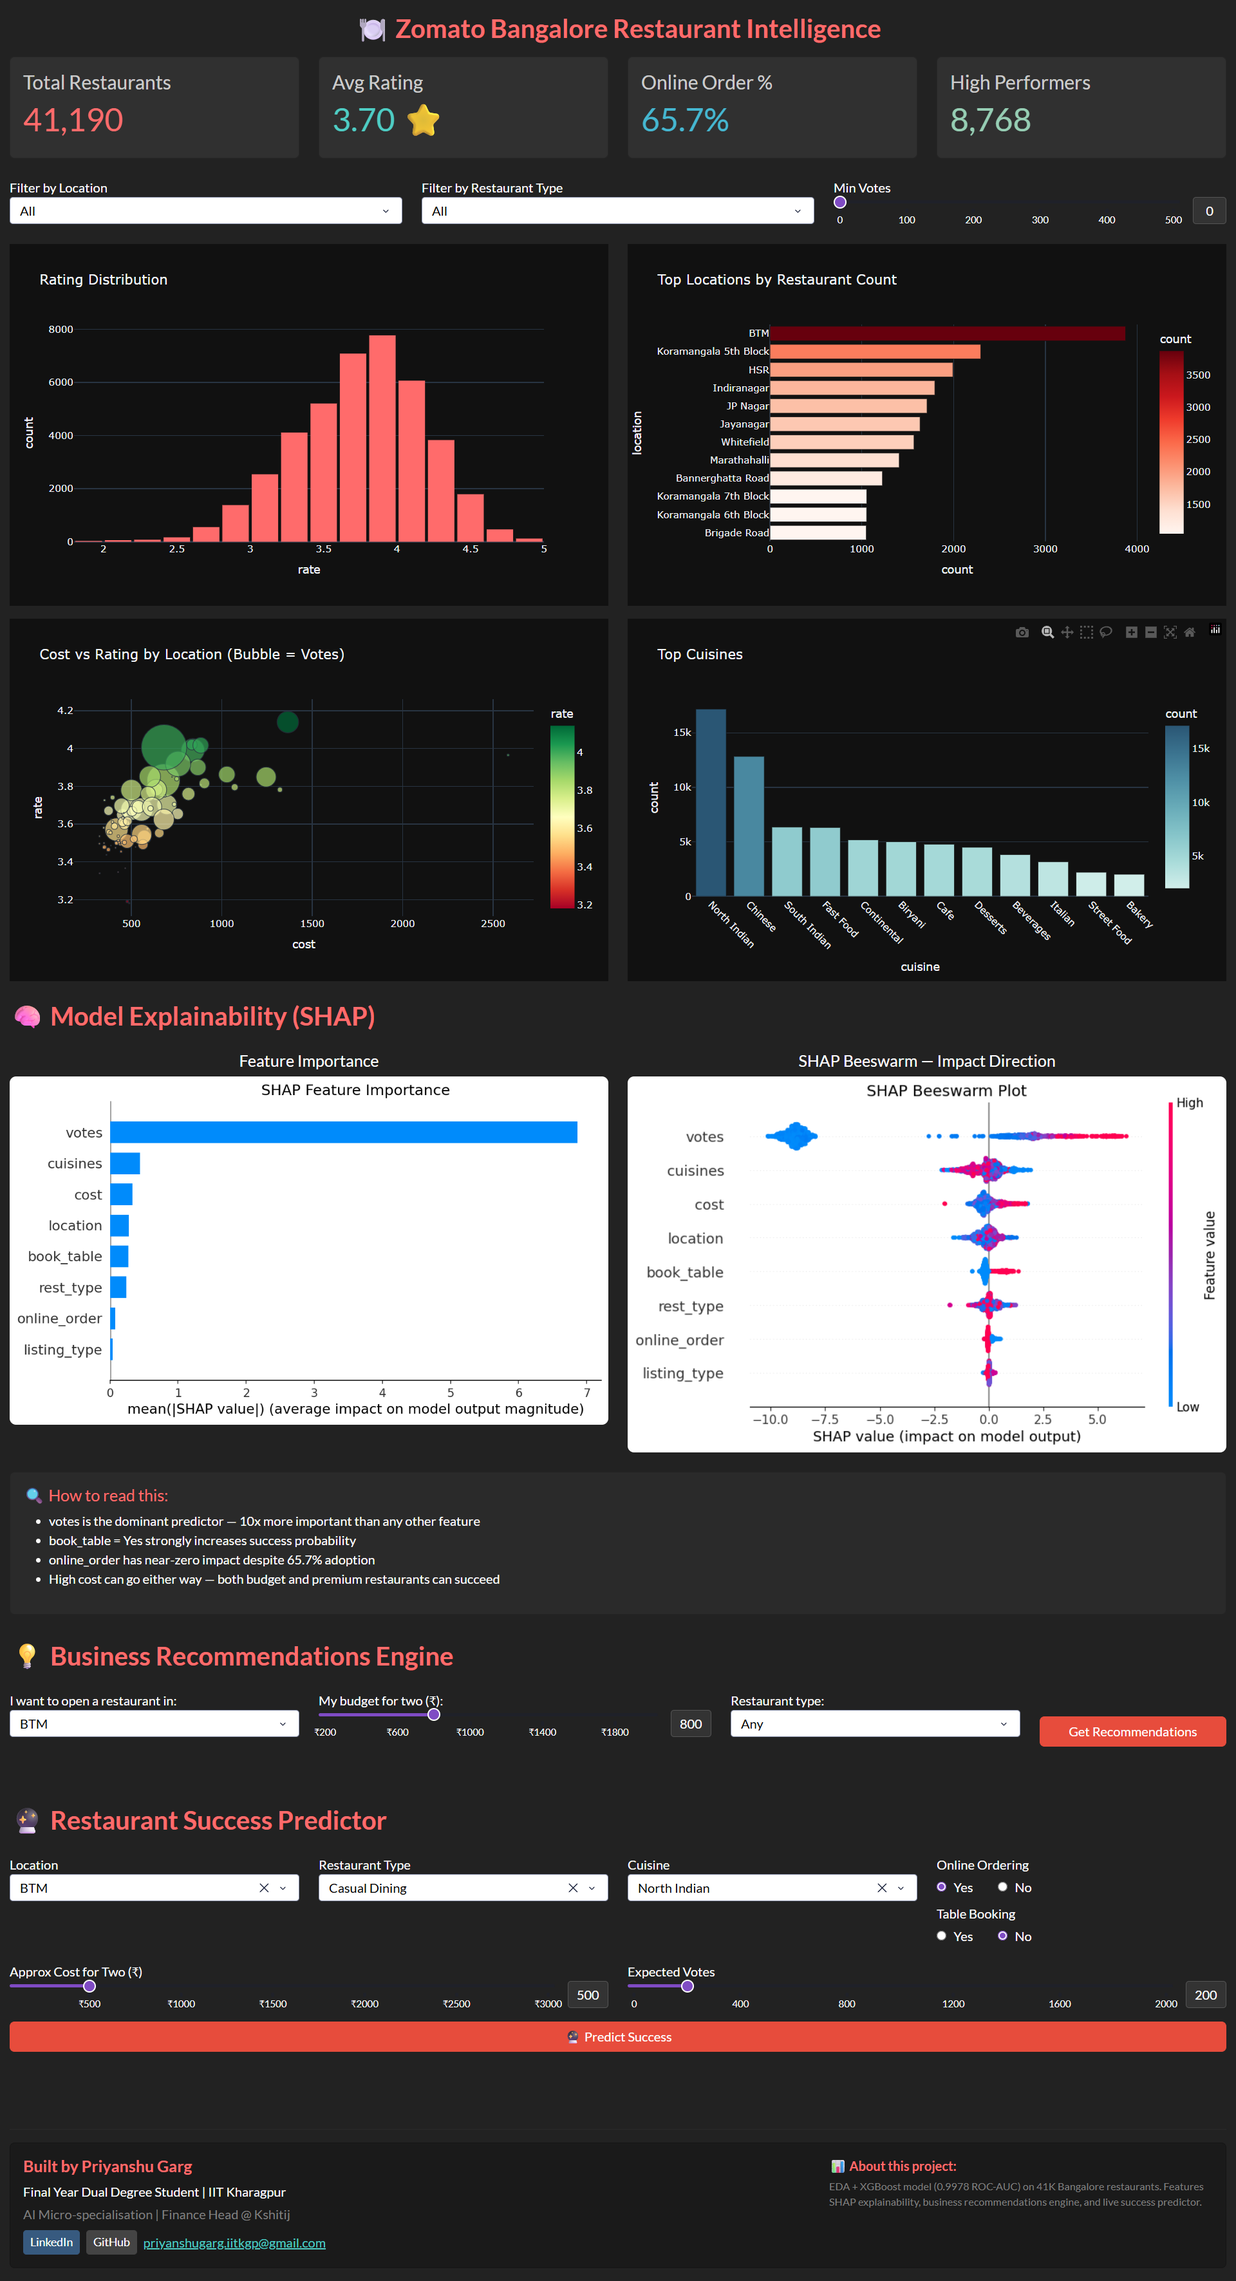
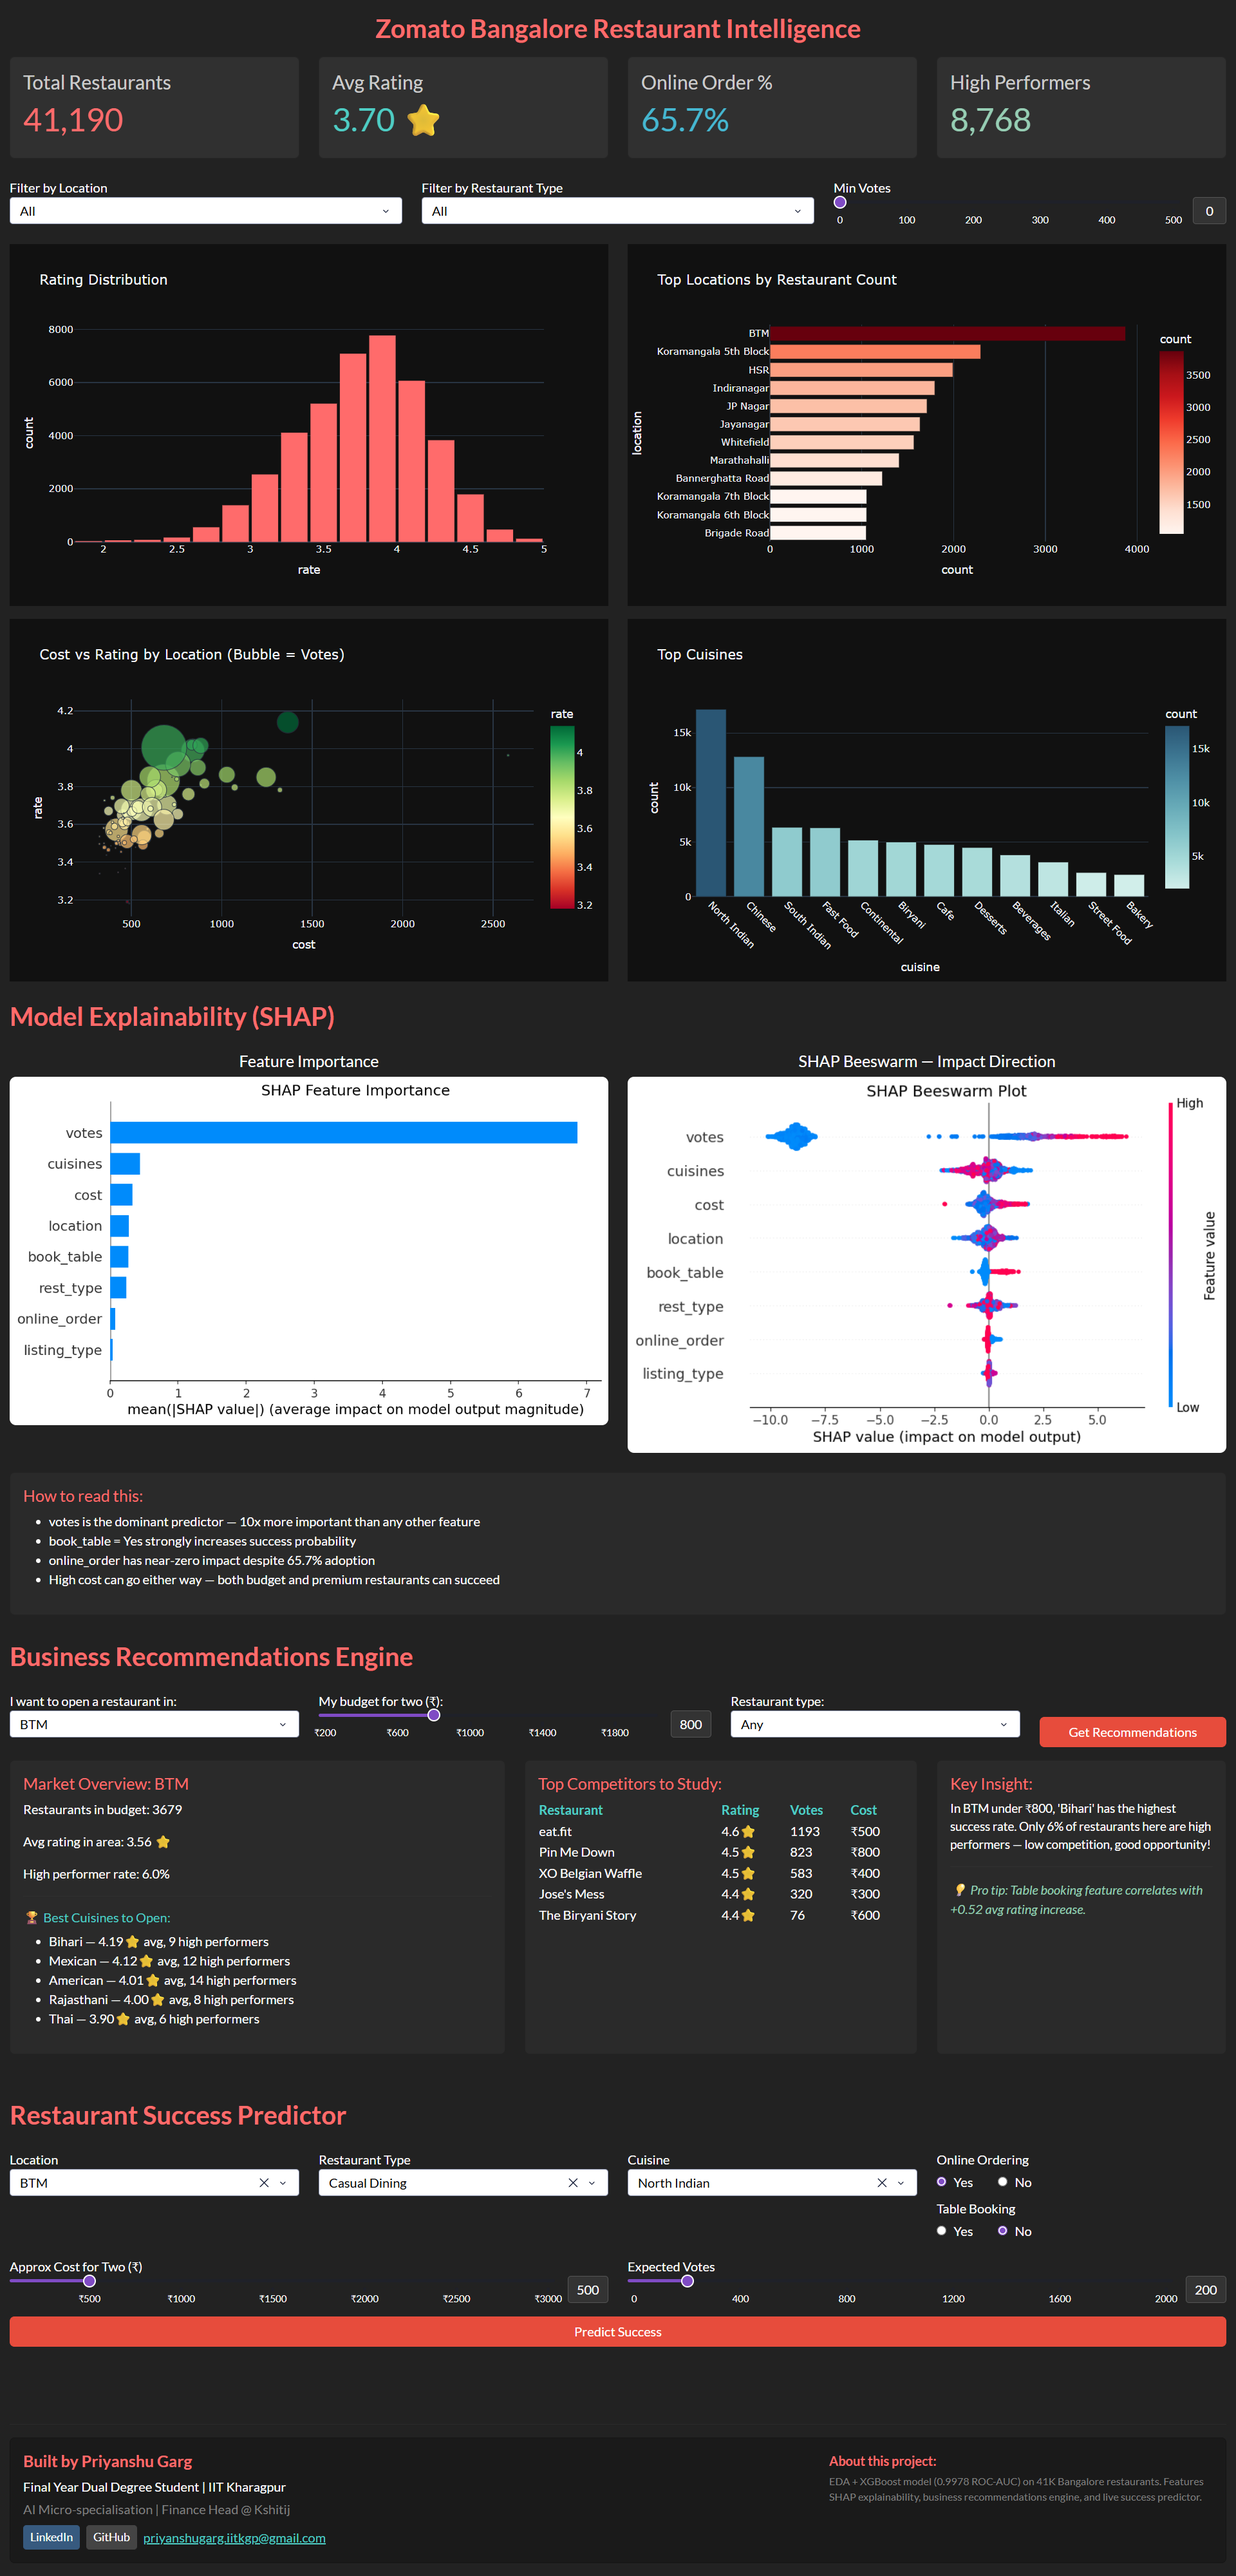
Add comprehensive README with badges and screenshots

diff --git a/dashboard/app.py b/dashboard/app.py
@@ -244,7 +244,7 @@ app.layout = dbc.Container(fluid=True, children=[
             dbc.Col([
                 html.H5("Built by Priyanshu Garg", style={'color':'#FF6B6B','fontWeight':'bold'}),
                 html.P("Final Year Dual Degree Student | IIT Kharagpur", style={'color':'white','marginBottom':'4px'}),
-                html.P("AI Micro-specialisation | Finance Head @ Kshitij", style={'color':'gray','marginBottom':'8px'}),
+                html.P("Product Analyst @ Inito", style={'color':'gray','marginBottom':'8px'}),
                 dbc.Row([
                     dbc.Col(dbc.Button("LinkedIn", href="https://www.linkedin.com/in/priyanshuvwxyz/",
                         target="_blank", color="primary", size="sm"), width="auto"),
